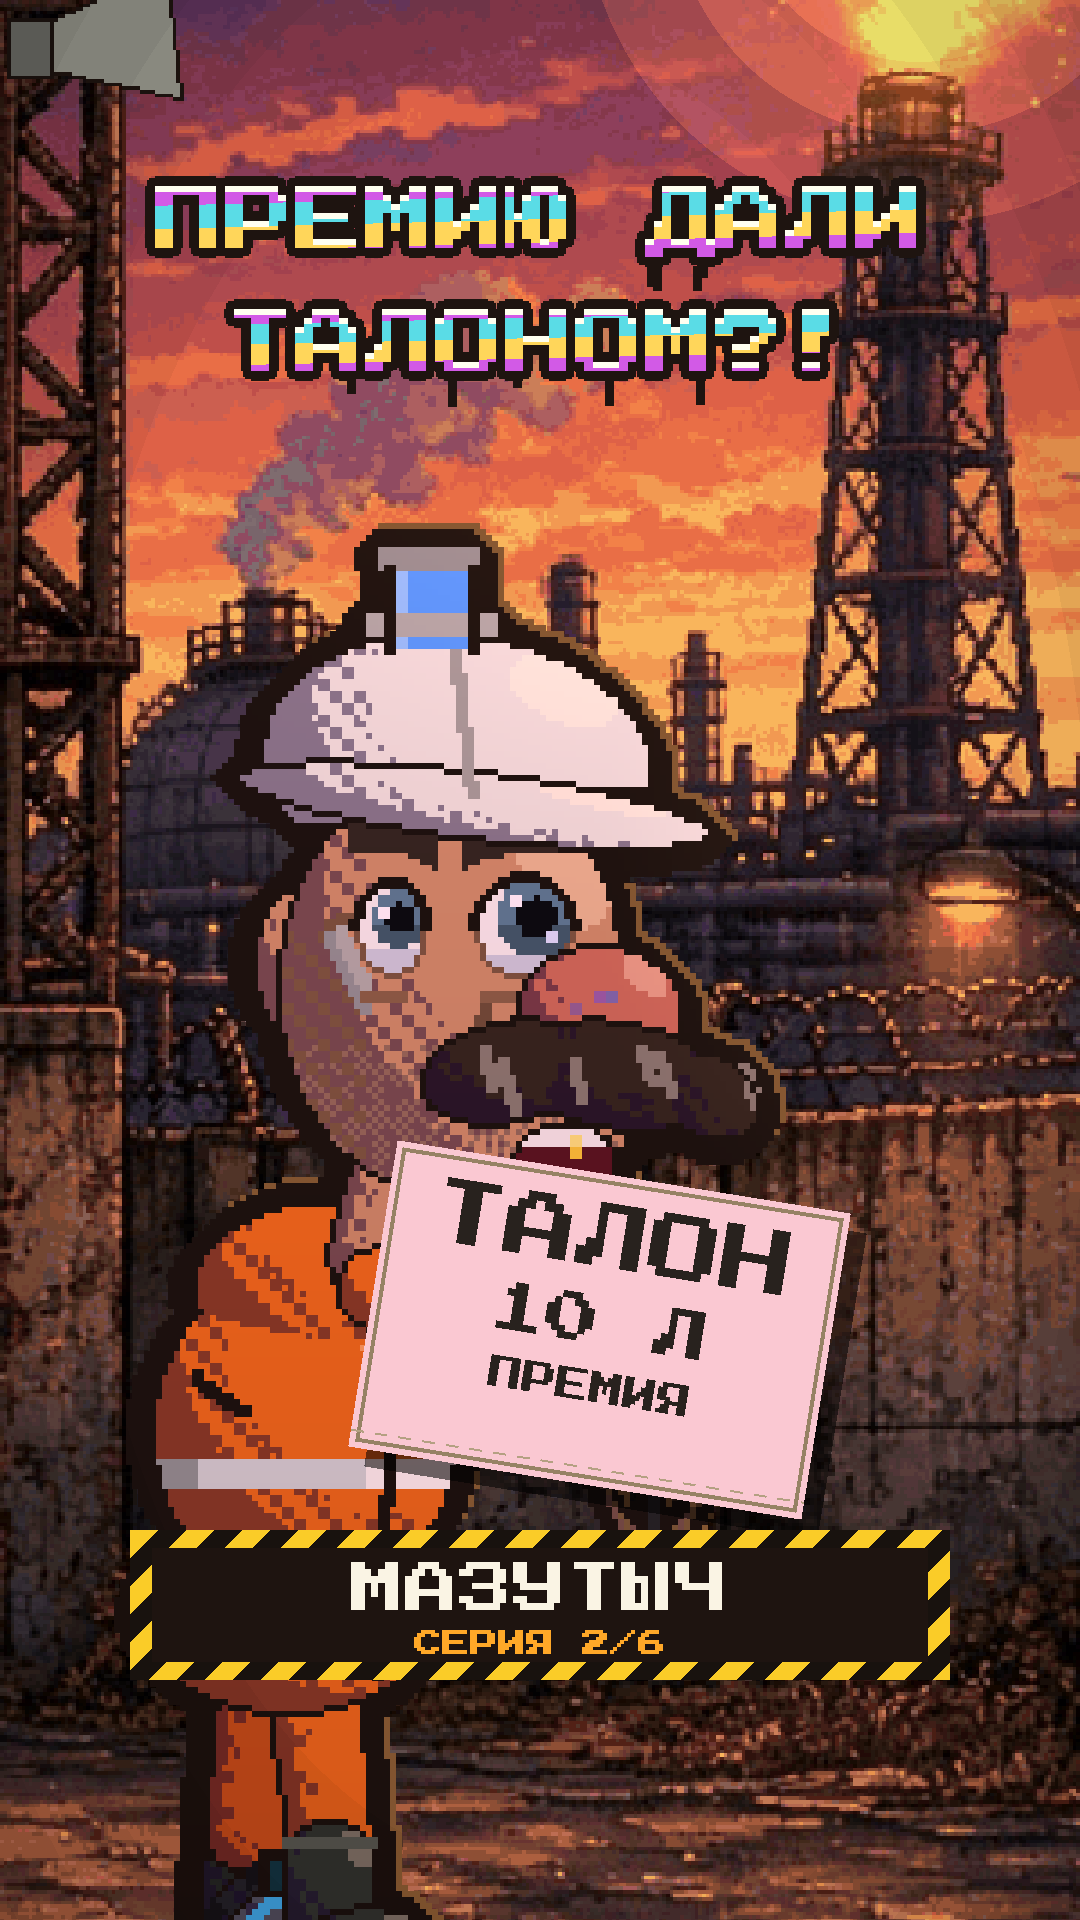
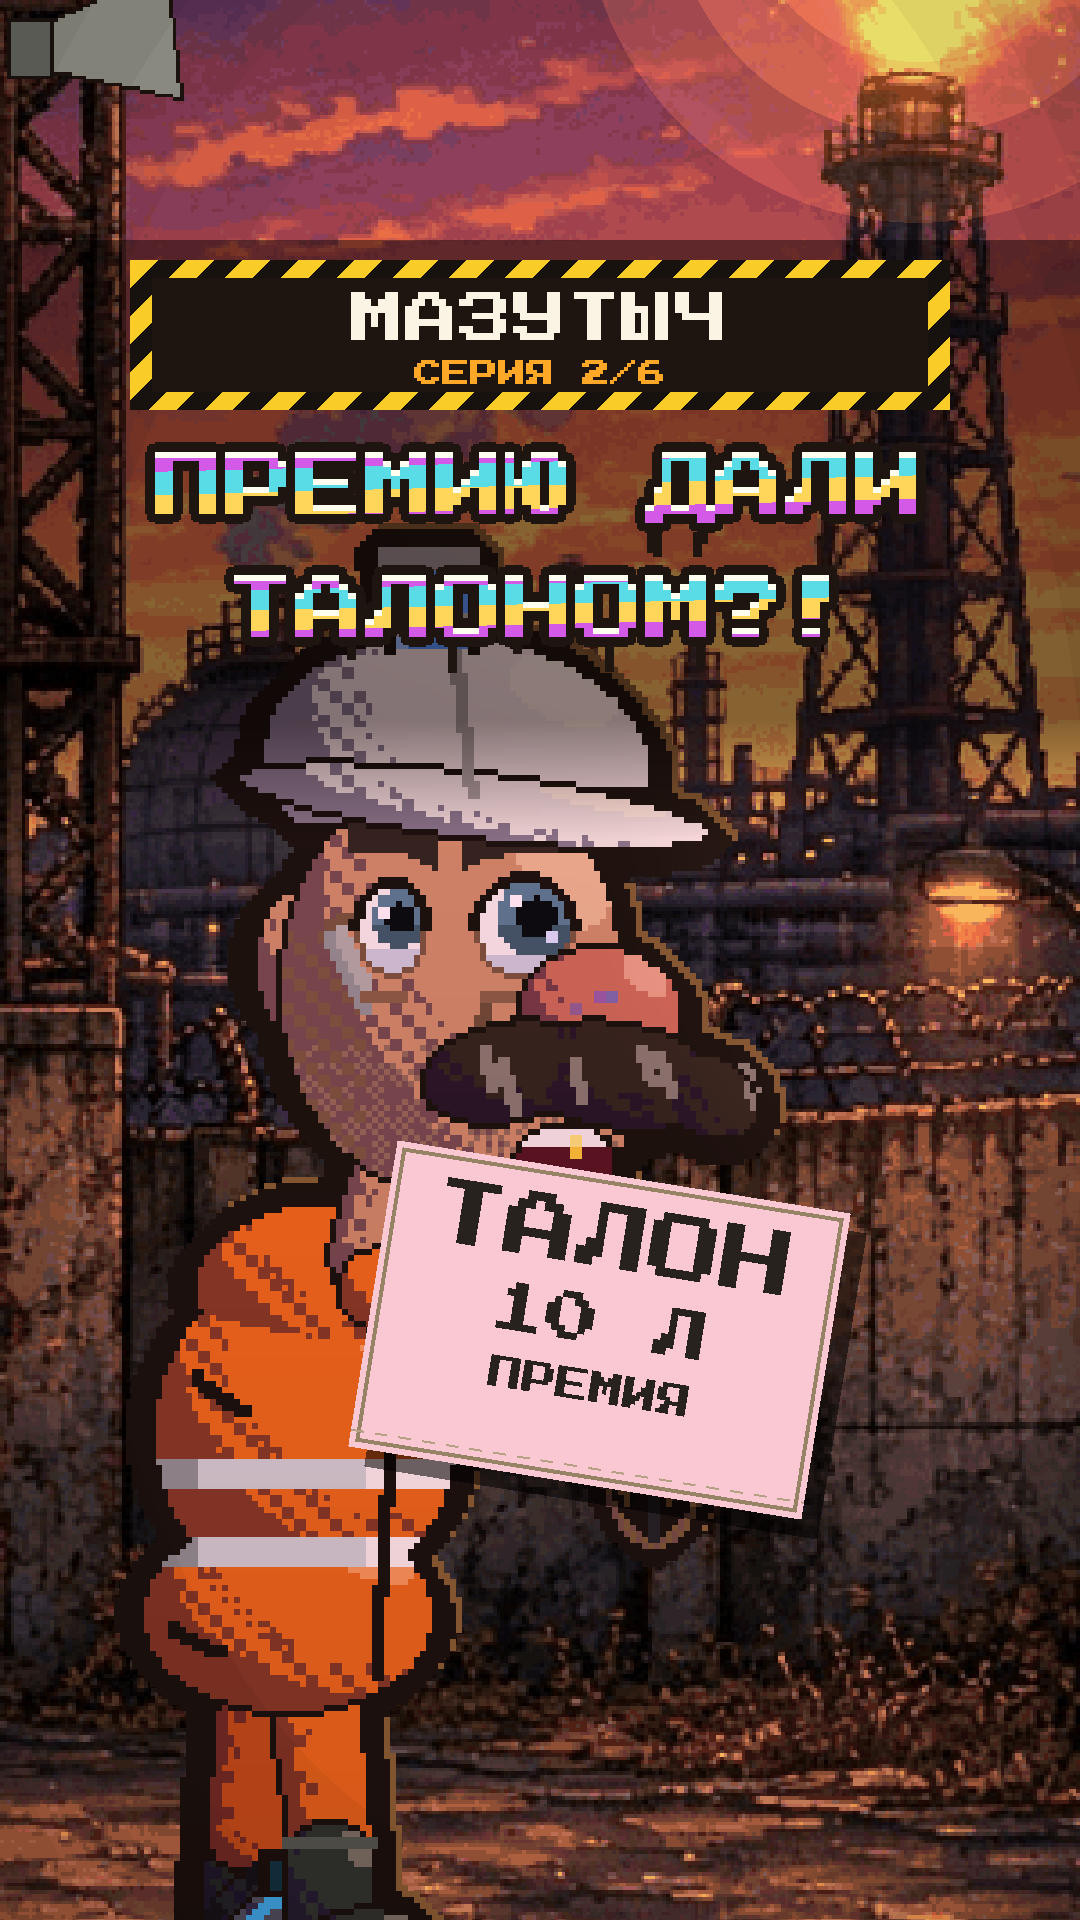
Мазутыч: обложки 1–6 под сетку TikTok (табличка и заголовок вверху зоны 3:4); правило в covers.md
Claude-Session: https://claude.ai/code/session_01X1V1v5av5rLUwozSKT1fGN

Changed region(s): [[0.0, 0.0938, 1.0, 0.4375], [0.1222, 0.7812, 0.8861, 0.875]]

diff --git a/engine/covergen_maz.py b/engine/covergen_maz.py
@@ -29,11 +29,27 @@ def plate(n, total=6, w=820, h=150):
     return np.array(img)
 
 
-def make(frame, title, n=1, out='cover.png', title_y=250, title_size=78, plate_y=1530):
+GRID = (240, 1680)          # what TikTok / Reels profile grids show of a 9:16 cover (central 3:4)
+SAFE_BOTTOM = 1520          # below this the grid overlays the date / views counter
+
+
+def make(frame, title, n=1, out='cover.png', title_y=None, title_size=78, plate_y=None, shift=0):
+    """Grid-safe layout (10.10.2026, owner's TikTok screenshot): hazard plate on top of the 3:4 zone, title right under it,
+    the scene below; nothing that matters under SAFE_BOTTOM (date / views overlay) or outside the 3:4 zone.
+    shift: move the scene down (px) so faces clear the title; the gap on top is filled with the frame's own top rows."""
     big = frame.copy()
-    t = K.hook_title(title, title_size)
-    O.overlay(big, t, 0, title_y, 1.0)
+    if shift:
+        big = np.concatenate([np.repeat(frame[:1], shift, 0), frame[:-shift]], 0) if shift > 0 else frame
     p = plate(n)
-    O.overlay(big, p, (big.shape[1] - p.shape[1]) // 2, plate_y, 1.0)
+    py = GRID[0] + 20 if plate_y is None else plate_y
+    t = K.hook_title(title, title_size)
+    ty = py + p.shape[0] + 6 if title_y is None else title_y
+    shade = np.zeros((big.shape[0], 1, 1), np.float32)                       # soft dark band behind plate + title
+    y1 = ty + t.shape[0]
+    shade[GRID[0]:y1, 0, 0] = 0.45
+    n_ = len(shade[y1:y1 + 120]); shade[y1:y1 + n_, 0, 0] = np.linspace(0.45, 0.0, 120)[:n_]
+    big = (big * (1 - shade)).astype(np.uint8)
+    O.overlay(big, p, (big.shape[1] - p.shape[1]) // 2, py, 1.0)
+    O.overlay(big, t, 0, ty, 1.0)
     Image.fromarray(big).save(out)
     return big

diff --git a/series/mazutych/episodes/ep04/cover.py b/series/mazutych/episodes/ep04/cover.py
@@ -10,6 +10,6 @@ frame = E.cop_cu(t, 0.0, 'glare', 'stop', whistle=True, sz=17.5, head=(540, 960)
 E.lights(frame, t, 0.22)
 E.M.paper(frame, 600, 1360, ['ШТРАФ', 'МОНОКОЛЕСО', '№ 000001'], w=460, h=310, rot=-8, col=(236, 232, 214), sizes=[72, 34, 26])
 out = pathlib.Path(__file__).with_name('cover.png')
-make(frame, ['ШТРАФ ЗА', 'МОНОКОЛЕСО?!'], n=4, out=str(out), title_y=150, title_size=66)
+make(frame, ['ШТРАФ ЗА', 'МОНОКОЛЕСО?!'], n=4, out=str(out), title_size=66)
 shutil.copy(out, P.series(E.SLUG) / 'covers' / 'cover_s01e04.png')
 print(out)

diff --git a/series/mazutych/episodes/ep02/cover.py b/series/mazutych/episodes/ep02/cover.py
@@ -19,6 +19,6 @@ def pre(big, v_): K.flare(big, v_, t, 1105, 60, 1.6, 1.0)
 frame = K.shot(E.GATE, K.light_gate, cx, cy, Z, acts=[m], pre=pre, sx=180, sy=330)
 E.coupon(frame, t, 600, 1330, 1.15, rot=-10)
 out = pathlib.Path(__file__).with_name('cover.png')
-make(frame, ['ПРЕМИЮ ДАЛИ', 'ТАЛОНОМ?!'], n=2, out=str(out), title_y=150, title_size=70)
+make(frame, ['ПРЕМИЮ ДАЛИ', 'ТАЛОНОМ?!'], n=2, out=str(out), title_size=70)
 shutil.copy(out, P.series(E.SLUG) / 'covers' / 'cover_s01e02.png')
 print(out)

diff --git a/series/mazutych/episodes/ep03/cover.py b/series/mazutych/episodes/ep03/cover.py
@@ -8,6 +8,6 @@ import ep03 as E
 frame = E.maz_cu(1.0, 0.0, 'shock', bottle=True, hold=False, look=(0.4, 0.6), sz=17.0, head=(560, 1000), wind=0.5, mouth_=0.7, blink=False)
 E.price_tag(frame, 1.0, 600, 1360, 1.5)
 out = pathlib.Path(__file__).with_name('cover.png')
-make(frame, ['БЕНЗИН', 'ПО 500?!'], n=3, out=str(out), title_y=150, title_size=80)
+make(frame, ['БЕНЗИН', 'ПО 500?!'], n=3, out=str(out), title_size=80)
 shutil.copy(out, P.series(E.SLUG) / 'covers' / 'cover_s01e03.png')
 print(out)

diff --git a/series/mazutych/episodes/ep05/cover.py b/series/mazutych/episodes/ep05/cover.py
@@ -20,6 +20,6 @@ def f(big, v_):
     fx.glow(big, x, y, 420, (255, 220, 110), 0.6)
 frame = E.K.shot(E.GI, E.light_gi, cx, cy, Z, acts=[rig, tl, m], fx_=f, sx=180, sy=330)
 out = pathlib.Path(__file__).with_name('cover.png')
-make(frame, ['БЕНЗИН', 'ИЗ СЕМЕЧЕК'], n=5, out=str(out), title_y=150, title_size=76)
+make(frame, ['БЕНЗИН', 'ИЗ СЕМЕЧЕК'], n=5, out=str(out), title_size=76)
 shutil.copy(out, P.series(E.SLUG) / 'covers' / 'cover_s01e05.png')
 print(out)

diff --git a/series/mazutych/episodes/ep06/cover.py b/series/mazutych/episodes/ep06/cover.py
@@ -21,6 +21,6 @@ def f(big, v_):
 frame = E.K.shot(E.HALL, E.light_hall, cx, cy, Z, acts=[car, m], fx_=f, sx=180, sy=420)
 E.K.confetti(frame, 3.6, 2.9, n=200, seed=2)
 out = pathlib.Path(__file__).with_name('cover.png')
-make(frame, ['ЗА 25 ЛЕТ —', 'МАШИНА?!'], n=6, out=str(out), title_y=150, title_size=72)
+make(frame, ['ЗА 25 ЛЕТ —', 'МАШИНА?!'], n=6, out=str(out), title_size=72)
 shutil.copy(out, P.series(E.SLUG) / 'covers' / 'cover_s01e06.png')
 print(out)

diff --git a/series/mazutych/episodes/ep01/cover.py b/series/mazutych/episodes/ep01/cover.py
@@ -24,7 +24,7 @@ def f(big, v_):
     K.wind_lines(big, t, 0.5)
 frame = K.shot(E.HW, K.light_hw, cx, cy, Z, acts=[car, m], fx_=f, sx=180, sy=330)
 out = pathlib.Path(__file__).with_name('cover.png')
-make(frame, ['ГДЕ', 'БЕНЗИН?!'], n=1, out=str(out), title_y=130, title_size=84)
+make(frame, ['ГДЕ', 'БЕНЗИН?!'], n=1, out=str(out), title_size=84)
 dst = P.series(E.SLUG) / 'covers'; dst.mkdir(exist_ok=True)
 shutil.copy(out, dst / 'cover_s01e01.png')
 print(out)

diff --git a/docs/decisions.md b/docs/decisions.md
@@ -78,3 +78,4 @@
 - 08.10.2026 — владелец одобрил E02 v2 («всё правильно, переделывай дальше с 3-й по 6-ю; новые реплики и слоты ElevenLabs — смело»). Восстановлены клонами голоса «Мазутыча» boss, tolik, vadik, cop (`voices.py restore`, 26/30 слотов). Переделаны по формуле v3: E03 v2 (27,3 с, хук «БЕНЗИН ПО 500?!», поворот 57 %), E04 v2 (29,4 с, «ШТРАФ ЗА МОНОКОЛЕСО?!», 59 %), E05 v2 (30,6 с, «Начальству — без очереди!»), E06 v2 (32,4 с, «ЗА 25 ЛЕТ — МАШИНА?!», 54 %). Названия в `publish_s01.txt` выровнены под новые хуки.
 - 08.10.2026 — владелец: выкладывает по одной серии каждый день утром (~08:15), утренний ролик крутится весь день; спросил про 07:45 или вечер. Решение: РУ — утро каждый день (CLAUDE.md §8, шаг 4), тест TikTok 07:30 против 08:15 по Москве; с 25.10 по Молдове на час раньше. `series/mazutych/publish_s01.txt` переписан под утренний ежедневный слот (сб 10.10 – чт 15.10).
 - 09.10.2026 — владелец: переделать E01 по новым правилам; E05 — машина над ямой маленькая и висит в воздухе («очевидные провалы не делать; если надо — новые задники, 2–3 не предел»); E06 — непонятно, что говорит моноколесо (нужна анимация речи). Сделано: E01 v3 (30,2 с, «ГДЕ БЕНЗИН?!», поворот 17,4 с), E05 v3 («шестёрка» вид сзади в масштабе ямы, колёса на краях, переноска в яме, люди ×1,9), E06 v3 + общий механизм говорящего колеса (`mazkit.shot`, `lcd_talk`). Правила «физически возможный кадр» и «видно, кто говорит» — в `docs/episode-formula.md` и CLAUDE.md §5.
+- 10.10.2026 — владелец (скрин профиля TikTok): обложки «Мазутыча» не вписываются в сетку — заголовок срезан сверху, табличка под датой. Переделаны все 6 по образцу «Валеры»: табличка вверху зоны 3:4, заголовок под ней (`covergen_maz.make`); правило в `docs/covers.md`. В видео первые 0,1 с остались со старыми обложками (не пересобирал).

diff --git a/docs/covers.md b/docs/covers.md
@@ -30,3 +30,6 @@
 
 ## Аватарка и шапка
 РУ: фиолетовый фон + серый кот. US: розово-неоновые (`series/sunny-palms-hoa/branding.md`).
+
+## Сетка профиля TikTok / Reels (правило владельца, 10.10.2026)
+Сетка показывает только центральные 3:4 обложки (y 240–1680 из 1920), а внизу плитки (~y 1520–1680) лежат дата и счётчик просмотров. Поэтому: табличка сериала **вверху** зоны 3:4 (y ≈ 260), заголовок сразу под ней, сцена и лица ниже, под y 1520 ничего важного. Для «Мазутыча» это делает `engine/covergen_maz.make` (затемнение под табличкой и заголовком). Образец — обложки «Валеры и кота» (табличка «ВАЛЕРА И КОТ / СЕРИЯ N/6» сверху). Перед сдачей смотрю превью-сетку (кроп 3:4 + плашка даты).
